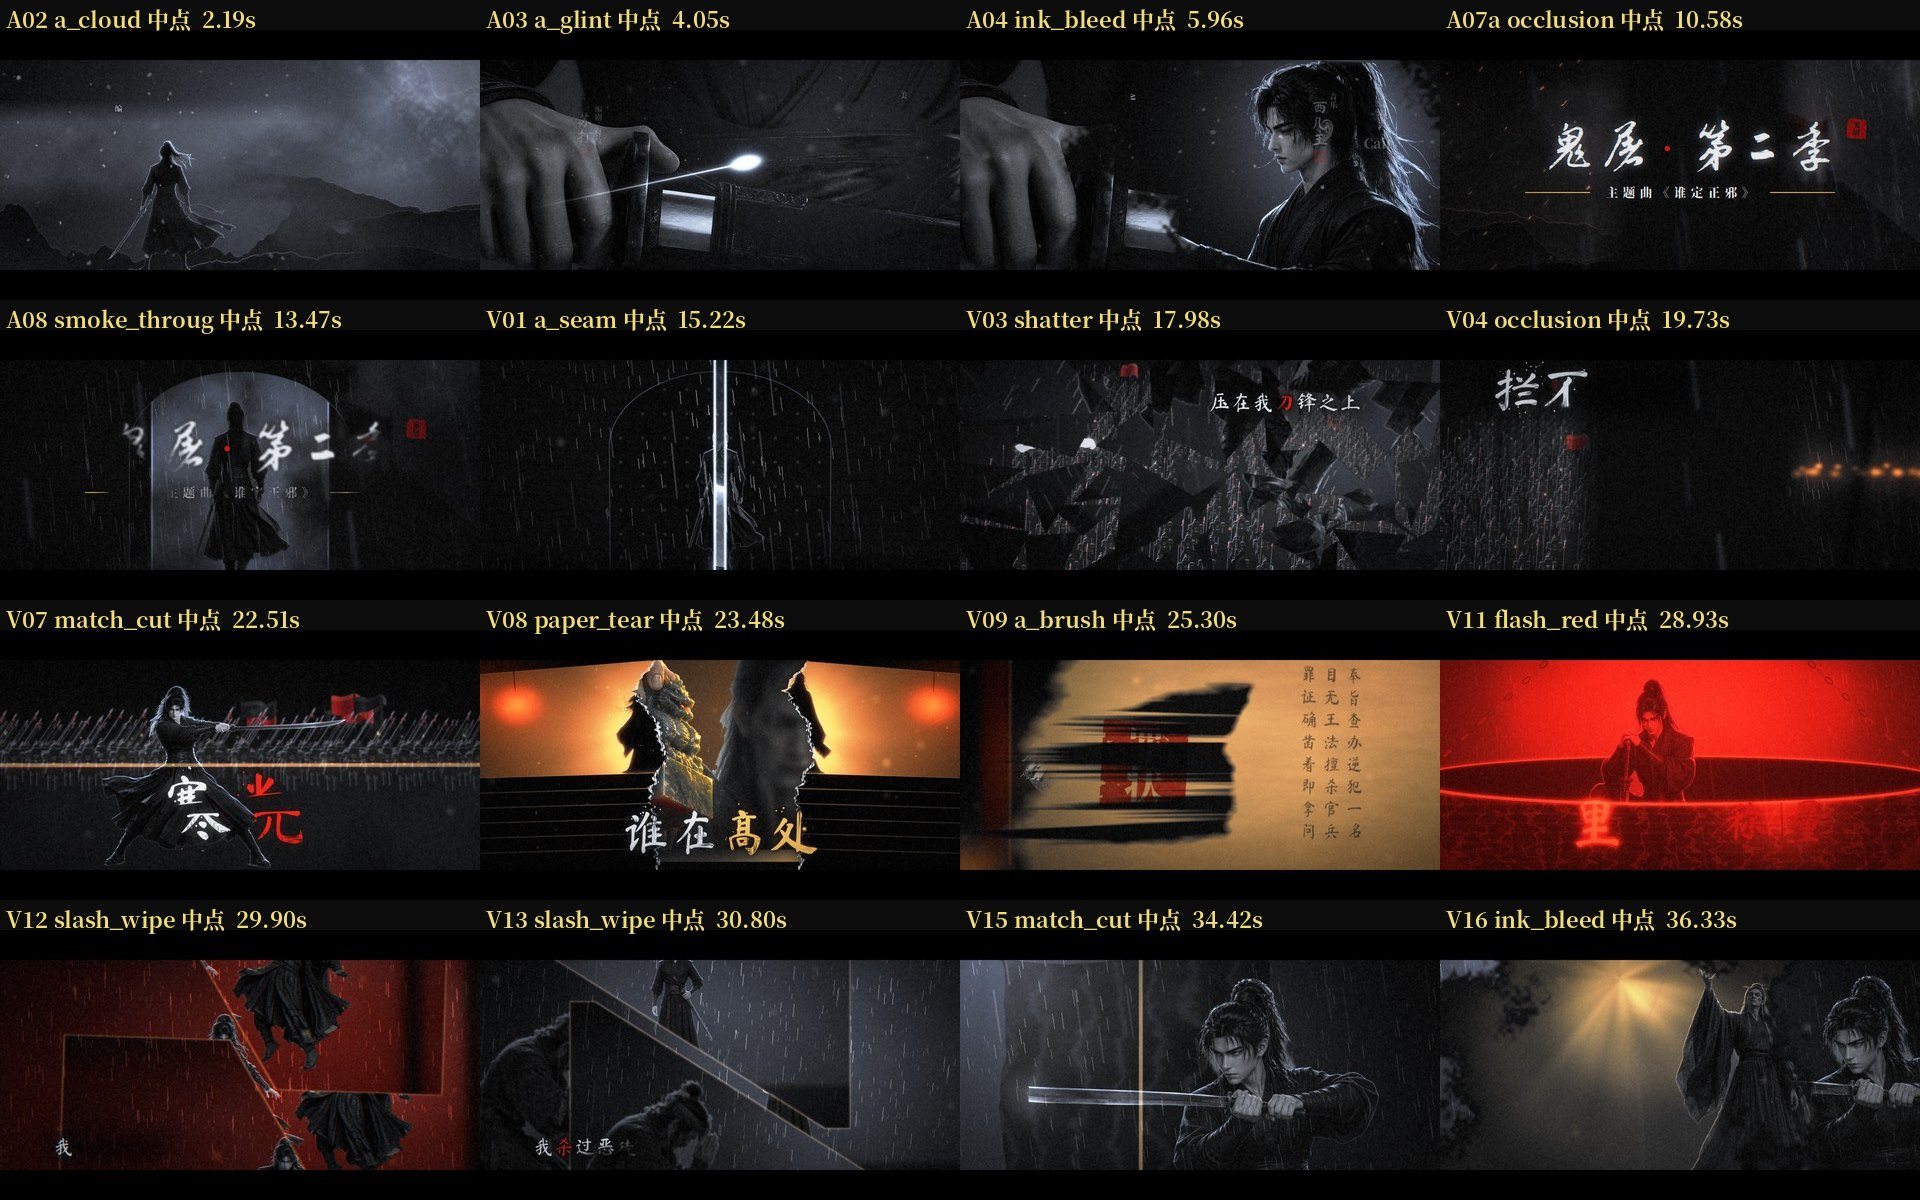
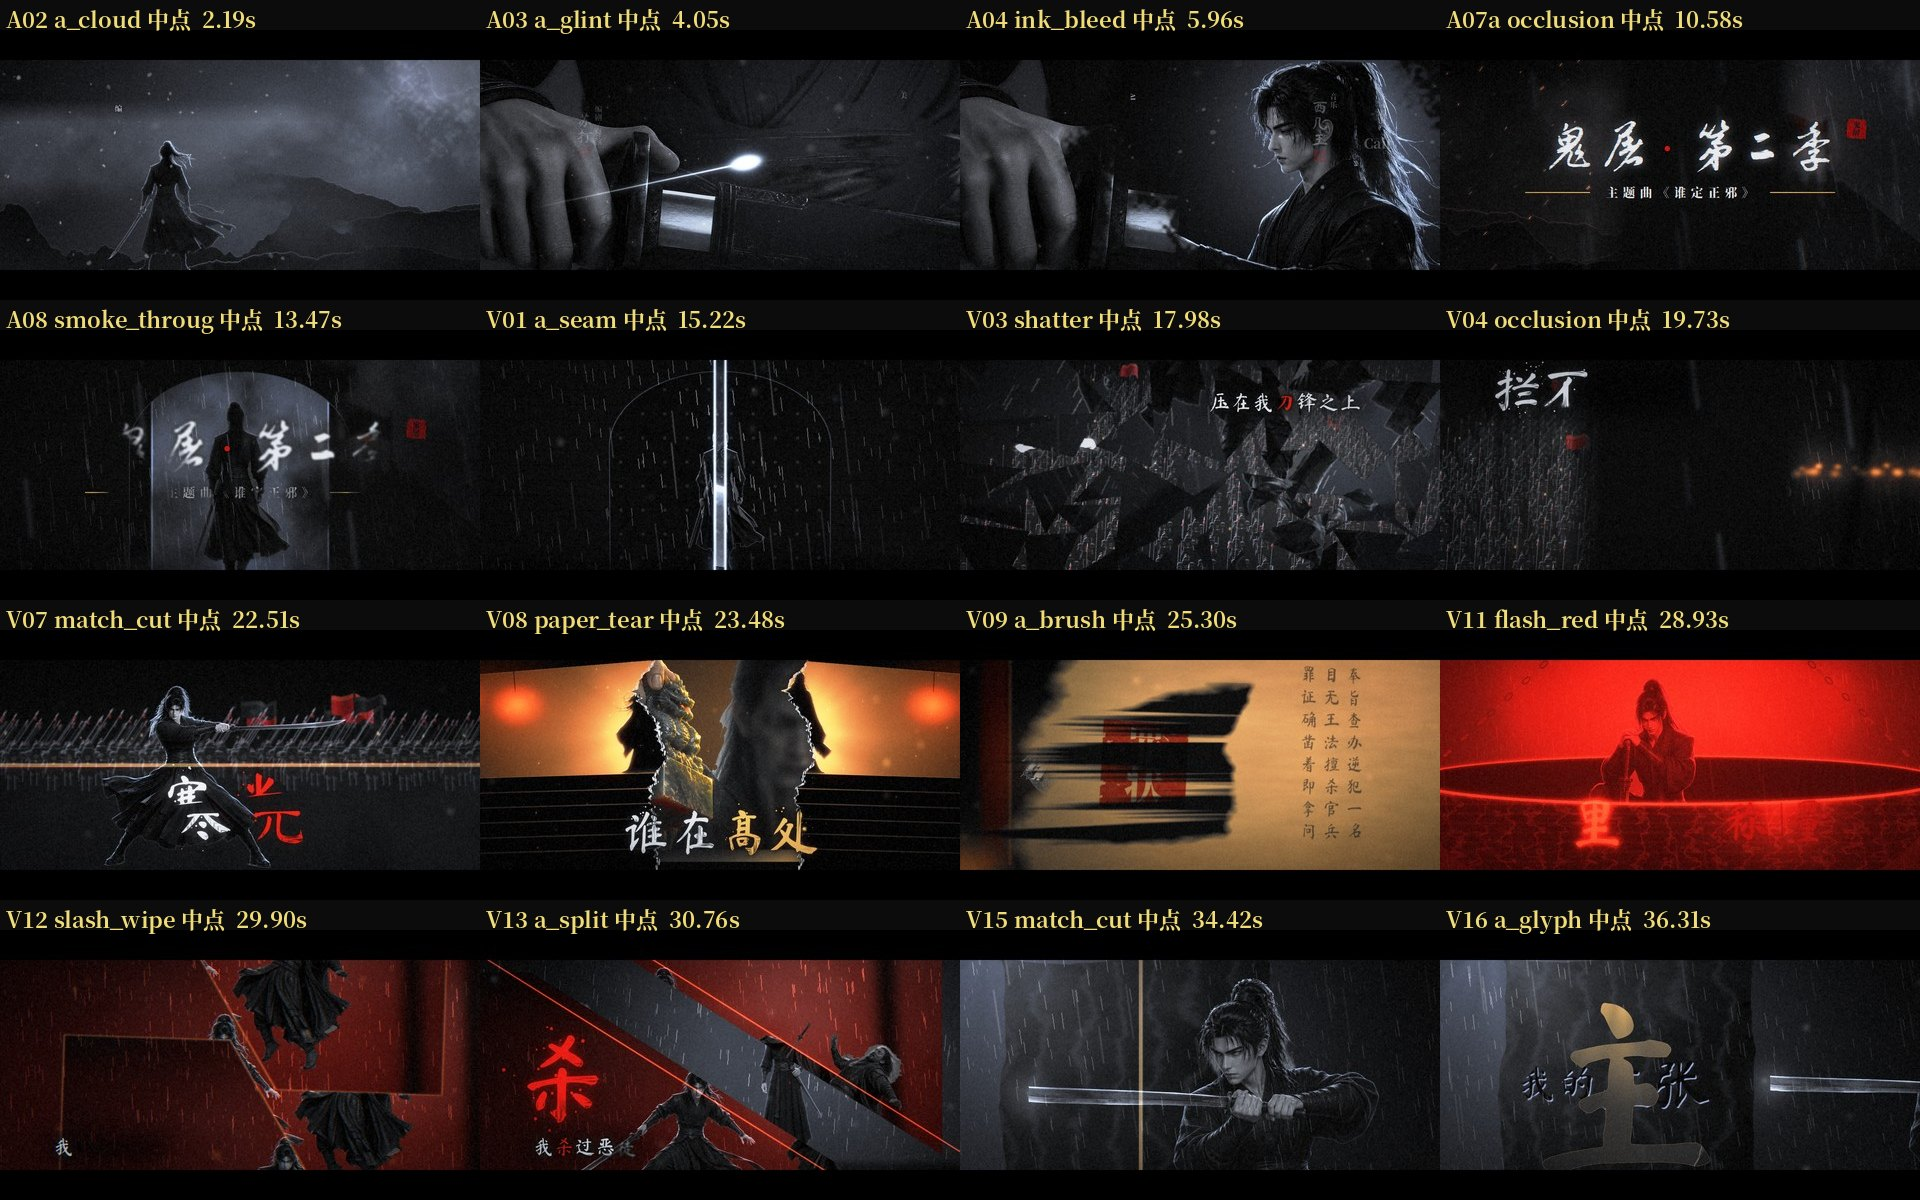
[A组] 第六棒 6/n：关键帧 v5（A_keys_v5 + _p0–_p3，含 V08 落印前后、V17 落地前后、V09 中帧、A07a 11.5/12.9）；V13 入改 a_split 两块、V16 入改「主」字遮罩 a_glyph、V18 入改尘浪 smoke_through（去 flash_red 红印感）、V15 刻完收刀让字、V17 减体积光

Changed region(s): [[0.25, 0.74, 0.5, 0.9867], [0.75, 0.74, 1.0, 0.9867]]

diff --git a/units/sec_a_intro_verse1.py b/units/sec_a_intro_verse1.py
@@ -1297,8 +1297,8 @@ class V15(Shot):
         pts = [(355, 652), (510, 652), (675, 652), (895, 652)]                   # 刀尖：每字左缘起刀，我 → 的 → 主 → 张
         ts = [CT(5, k) for (_, k, _, _, _) in self.GL]
         if t <= ts[0]: return pts[0]
-        if t >= ts[-1] + 0.12:                                                  # 第六棒：刻完「张」收刀后撤，刀身让开字
-            q = eio(clamp01((t - ts[-1] - 0.12) / 0.3)); return (pts[-1][0] + 420 * q, pts[-1][1])
+        if t >= ts[-1] + 0.06:                                                  # 第六棒：刻完「张」收刀后撤，刀身让开字
+            q = eout(clamp01((t - ts[-1] - 0.06) / 0.18)); return (pts[-1][0] + 460 * q, pts[-1][1])
         for i in range(len(ts) - 1):
             if t < ts[i + 1]:
                 q = eio(clamp01((t - ts[i]) / (ts[i + 1] - ts[i])))
